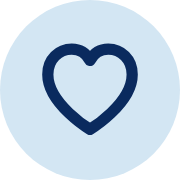
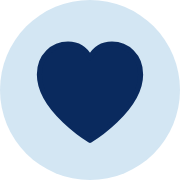
Add files via upload

Changed region(s): [[0.2778, 0.2778, 0.7222, 0.6944], [0.1944, 0.2222, 0.8056, 0.8056], [0.4444, 0.25, 0.5556, 0.3056]]

diff --git a/index.html b/index.html
@@ -4,8 +4,8 @@
 <meta charset="UTF-8">
 <meta name="viewport" content="width=device-width, initial-scale=1, viewport-fit=cover">
 <meta name="theme-color" content="#0a2a5e">
-<link rel="icon" type="image/svg+xml" href="favicon.svg">
-<link rel="apple-touch-icon" href="apple-touch-icon.png">
+<link rel="icon" type="image/svg+xml" href="favicon.svg?v=2">
+<link rel="apple-touch-icon" href="apple-touch-icon.png?v=2">
 <title>Saúde Mental Universitária</title>
 <meta name="description" content="Cuidar da sua saúde mental também faz parte da sua jornada acadêmica. Desafios, estratégias, exercício de respiração, plano da semana e onde buscar apoio.">
 <link rel="preconnect" href="https://fonts.googleapis.com">
